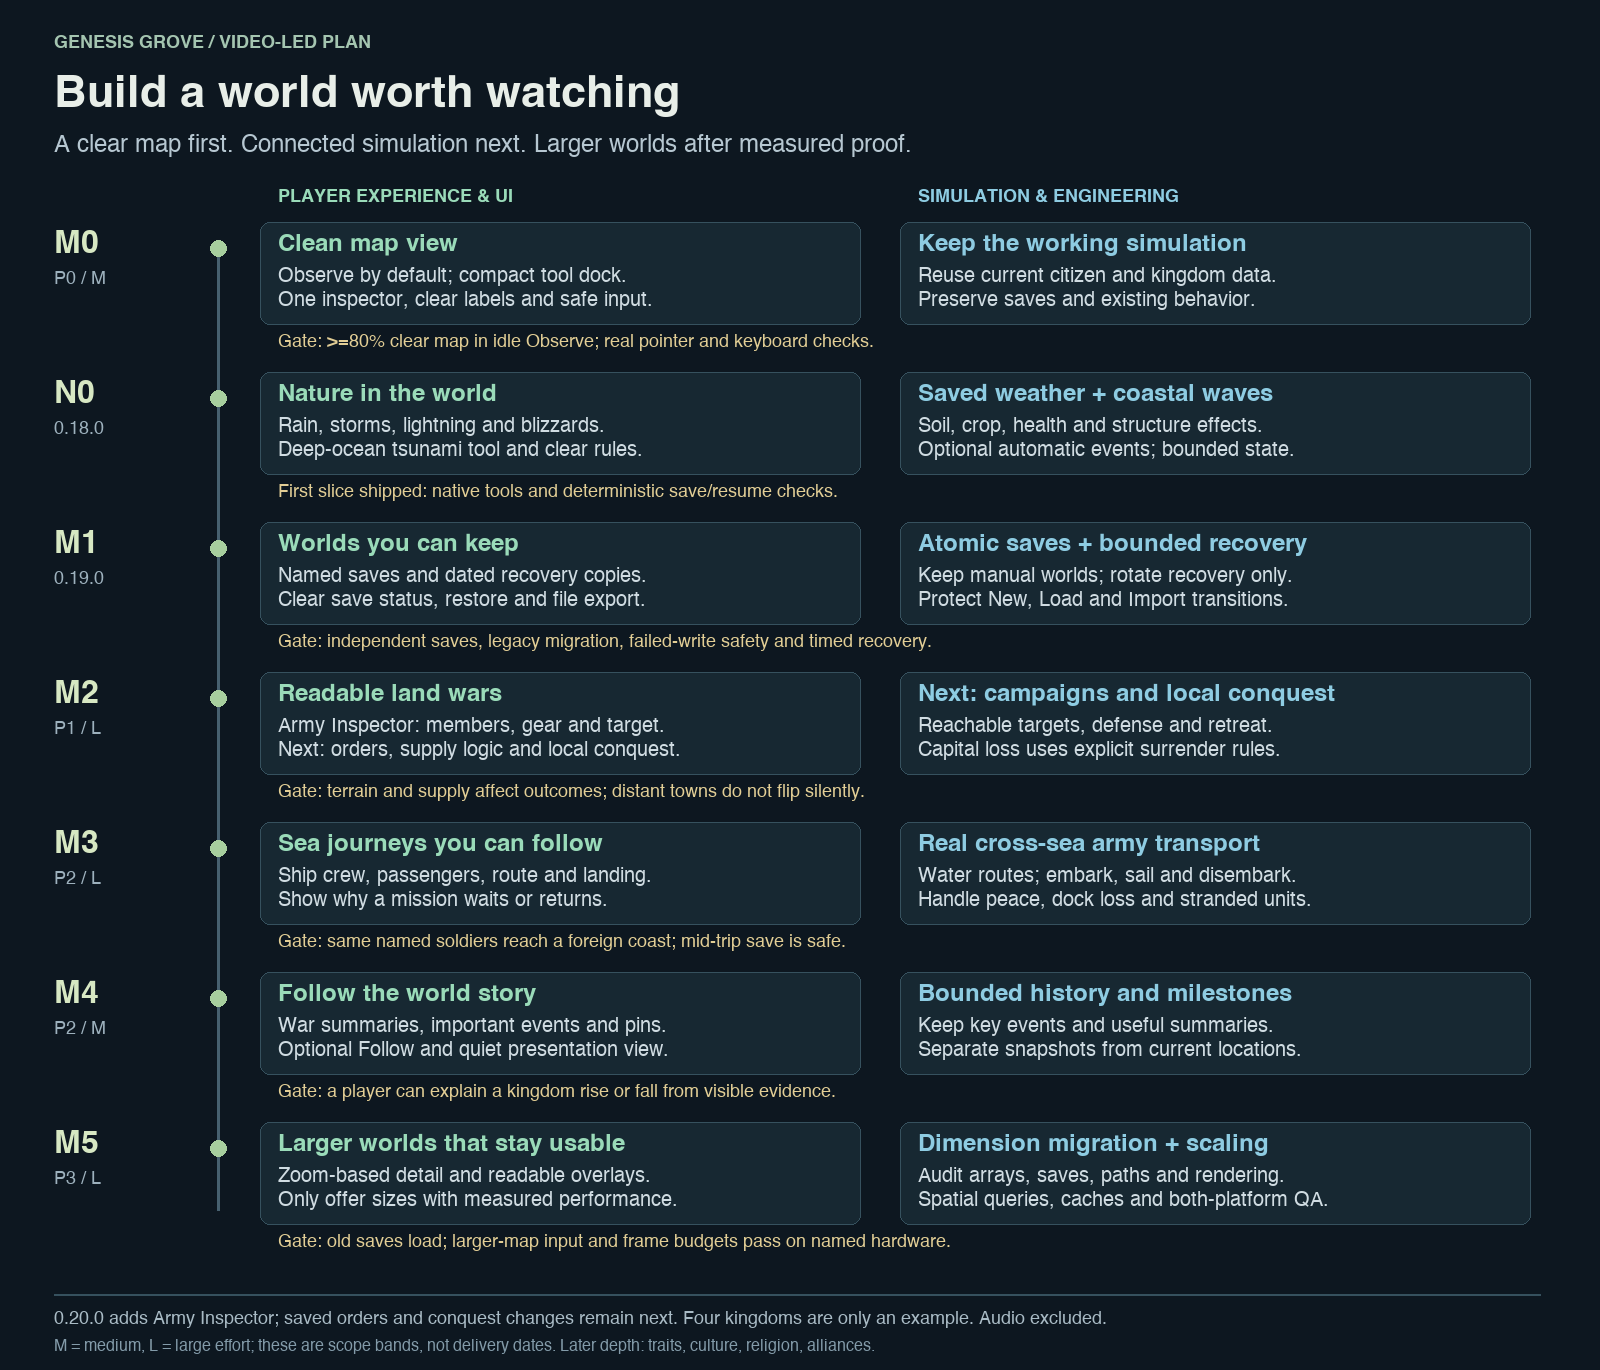
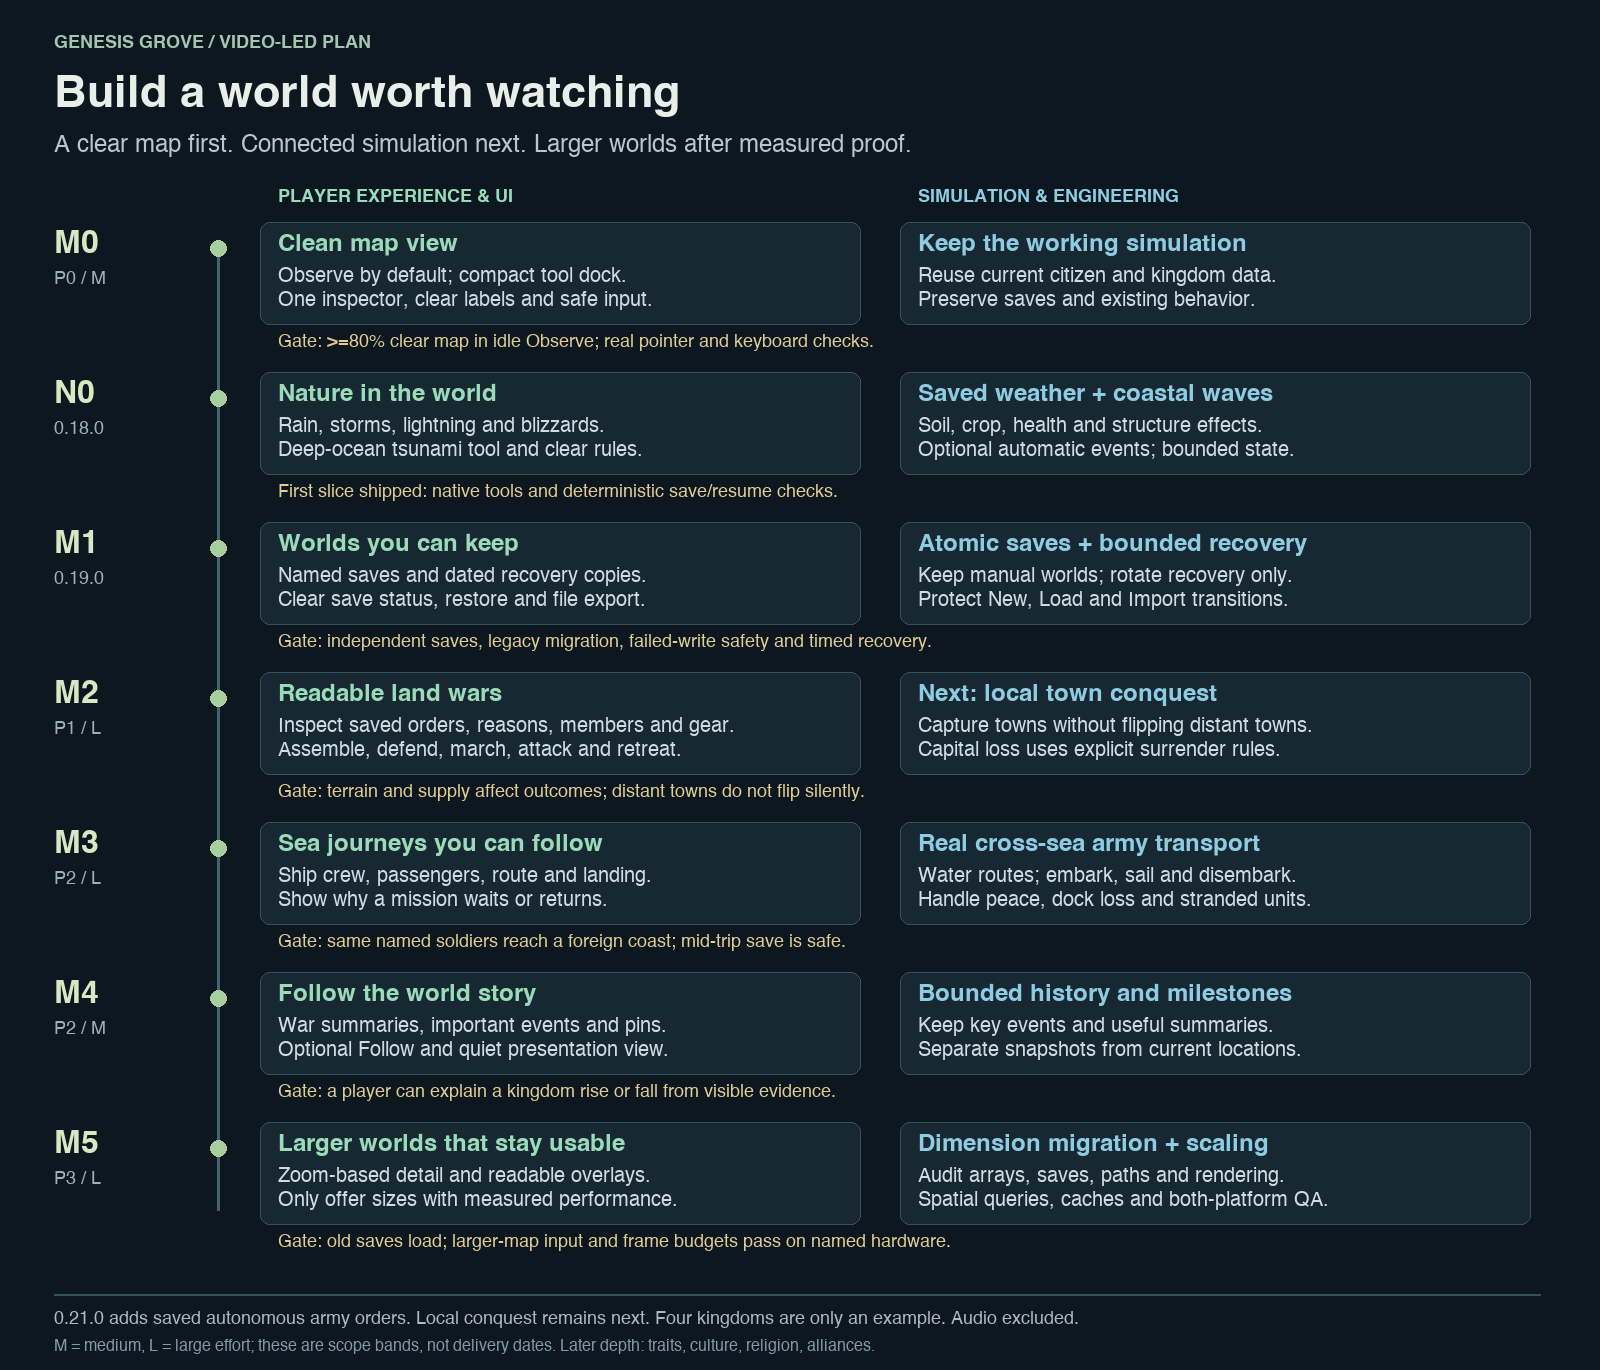
chore: release 0.21.0 with autonomous army orders

Changed region(s): [[0.0938, 0.9504, 0.6875, 0.981], [0.5625, 0.4905, 0.8438, 0.5518], [0.1562, 0.5212, 0.4375, 0.5518]]

diff --git a/docs/release-0.21.0.md b/docs/release-0.21.0.md
@@ -1,0 +1,53 @@
+# 0.21.0: Armies keep and explain their decisions
+
+Home garrisons now save stable autonomous orders: assemble, defend, march, attack
+and retreat. A campaign keeps its reachable enemy-town target instead of switching
+merely because another town becomes closer. Dispersed members assemble, nearby
+home attackers call soldiers back, and low health or shared food causes real
+homeward withdrawal. Equipped-strength margins influence campaign decisions.
+
+The Army Inspector shows the saved order and its reason separately from live
+member tasks. Existing medical care and individual injury behavior retain priority.
+Retreating groups remain visible; destination lines show valid March/Attack targets.
+Kingdom summaries use order states. The compact map-first interface remains.
+
+Orders persist through save/load with bounded validation. Old worlds without orders
+load with an explicit home-guard preview until time runs. Paused loading/inspection
+neither advances time nor issues or replaces decisions. Peace, capture, lost targets,
+blocked terrain and group dispersal have defined invalidation behavior. A failed
+bounded military path stops movement rather than falling back to a direct march.
+
+Food remains shared kingdom stock. This update does not introduce carried army
+rations, dedicated supply lines, player micromanagement, local capital-conquest
+rules or military ocean transport. Capital capture still transfers its kingdom.
+
+- [Actual saved March order](images/army-1366x768-0.21.0.png)
+- [Actual compact view](images/army-1024x768-compact-0.21.0.png)
+- [Actual food-shortage withdrawal](images/army-withdrawal-1366x768-0.21.0.png)
+- [Order rules, compatibility and measured cost](army-inspector.md)
+- [Updated implementation path](video-analysis/README.md)
+
+## Verification
+
+- 131 simulation/save tests and JavaScript syntax checks passed.
+- Source Mac Electron: 56 general and seven army check groups passed, with no
+  renderer errors. Army checks cover saved order/reason, actual withdrawal,
+  native selection, follow/cancellation, no paint-through, presentation and
+  compact layouts. Unit checks include state transitions, sticky targets, stale
+  intents, blocked routes, malformed imports and deterministic save/resume.
+- A documented seven-run 100-kingdom fixture comparison measured steady-step
+  median/p95 of 4.008/7.197 ms versus 2.580/5.120 ms in 0.20.0. Routing/decision
+  cost increased; this is not a frame-rate or maximum-population guarantee.
+
+- Packaged Mac Electron: 56 general and seven army check groups passed, with no
+  renderer errors. The withdrawal capture follows verified homeward movement and
+  waits for the live retreat activity and clear notices.
+- Mac arm64 and Windows x64 ZIP builds completed. All 37 packaged source files in
+  both applications match the verified workspace; metadata reports 0.21.0 and the
+  expected desktop entry. ZIP integrity and bundled payload matching passed.
+
+Packages are unsigned. The Windows ZIP is cross-built; Windows
+gameplay has not been tested. Native platform build results are checked separately.
+
+Next: local town capture and explicit capital-surrender rules, then ship inspection
+and military transport across water. Larger maps remain later measured work.

diff --git a/docs/video-analysis/README.md b/docs/video-analysis/README.md
@@ -23,8 +23,13 @@ world replacement. Map layers and a quiet presentation view extend M0 for the ge
 sandbox. There is no new kingdom-count requirement or dedicated scenario.
 
 Version 0.20.0 adds the first M2 slice: compact army inspection, live member tasks,
-equipment, target/siege summaries and focus/follow. Persistent orders, dedicated
-army supply and local conquest remain later changes.
+equipment, target/siege summaries and focus/follow. That release left saved orders
+and later conquest changes for the next slices.
+
+Version 0.21.0 persists autonomous orders with reachable targets, assembly, defense,
+attack and retreat. The inspector explains health, food, strength and target
+decisions; legacy worlds remain readable. Local capital conquest, dedicated supply
+inventory/routes and naval army transport remain future work.
 
 ## Read this first
 
@@ -147,21 +152,21 @@ No four-kingdom setup is included; the existing general sandbox remains the targ
 ### M2 — Make land wars explainable · P1 · L
 
 The compact [Army Inspector](../army-inspector.md) exposes home garrisons, live
-member activity/equipment, shared kingdom food and target siege pressure. The next
-slice adds saved autonomous home-group orders, stable identities, reachable sticky
+member activity/equipment, shared kingdom food and target siege pressure. Version
+0.21.0 adds saved autonomous home-group orders, stable identities, reachable sticky
 targets, home defense and food/health/strength decisions. Assemble, defend, march,
 attack and retreat guide actual movement; paused reconstruction only projects
 saved orders. Dedicated inventory/supply routes, local capital conquest and military
 sea transport remain future work. This is a first M2 slice, not completion of the
 milestone's conquest and stronghold gates.
 
-- Give armies stable identities and states: assemble, defend, march, attack, retreat.
-- Evaluate reachable targets, threat, food and equipment instead of only distance.
-- Show targets, supply condition, siege progress, and a short reason for each order.
-- Record diplomatic intent and treaty timers. Keep current pairwise relations first.
-- Make town capture local. The current capital-capture function transfers all towns
+- [x] Save stable home-group identities and autonomous assemble/defend/march/attack/retreat orders.
+- [x] Evaluate reachable targets, home threat, health, shared food and equipped strength.
+- [x] Show targets, shared food, target siege pressure and a short reason for each order.
+- [ ] Record diplomatic intent and treaty timers. Keep current pairwise relations first.
+- [ ] Make town capture local. The current capital-capture function transfers all towns
   and people immediately; introduce relocation or explicit surrender conditions.
-- Keep civilians working and towns recovering while armies campaign.
+- [ ] Verify sustained civilian work and town recovery through the local-conquest changes.
 
 **Done when:** an army cannot cross impassable terrain or attack an unreachable
 target; a stronghold and supply shortage change an outcome; capturing a capital

diff --git a/docs/architecture.md b/docs/architecture.md
@@ -21,7 +21,8 @@ The simulation and procedural renderer use web standards without runtime library
 - `src/machines.js`: bounded fleets of water boats, ground artillery, survey balloons, courier aircraft, and larger flying transports.
 - `src/machine_art.js`: original vessel, aircraft, cannon, and fortification sprites.
 - `src/save_store.js` and `src/save_ui.js`: atomic IndexedDB named saves, bounded recovery, legacy migration, visible-time autosave and pre-replacement protection.
-- `src/army_inspector.js`: read-only active-garrison summaries, badge visibility/hit areas and paused-load reconstruction with the existing transient planner.
+- `src/army_orders.js`: bounded deterministic autonomous garrison orders, land-route reachability, saved-state validation and read-only paused projection.
+- `src/army_inspector.js`: read-only active-garrison summaries, badge visibility/hit areas and paused-load projection of saved orders; legacy worlds preview a home guard until planning runs.
 - `src/map_layers.js`: actual remaining-deposit, army and trade/settler overlays; presentation mode changes the HUD without changing simulation rules.
 - `src/weather.js` and `src/weather_art.js`: bounded saved rain/storm/drought/blizzard/tsunami events, optional natural scheduling, coastal reach checks, actual crop/soil/health/structure effects and original visual effects.
 - `src/sandbox.css`: map-first Observe layout, contextual tool palette and compact dock; summary-first inspectors preserve expanded detail state.

diff --git a/docs/roadmap.md b/docs/roadmap.md
@@ -15,10 +15,11 @@ concise inspectors and native input checks. A Nature slice adds moving rain and
 storms, lightning, drought, blizzards and deep-ocean coastal tsunamis, with optional
 automatic events and saved state. Version 0.19.0 adds named saves/recovery, map
 layers and presentation view. Version 0.20.0 adds compact army inspection and
-focus/follow. Ship inspection and persistent army orders remain future work.
+focus/follow. Version 0.21.0 persists autonomous orders, explains their reasons and
+uses actual health, food, strength and land reachability. Ship inspection remains future work.
 The four kingdoms are only the video example; no dedicated setup is planned.
-Next: persistent army orders and explained decisions, followed by local conquest
-and detailed ship inspection.
+Next: local town conquest and explicit capital-surrender rules, followed by
+detailed ship inspection and military transport.
 See [nature mechanics](nature.md) for current effects and later hazards.
 
 ## Earlier feature priorities

diff --git a/README.md b/README.md
@@ -23,7 +23,9 @@ npm start
 
 If a macOS build has already been made, open `dist/mac-arm64/Genesis Grove.app` (Apple silicon) or `dist/mac/Genesis Grove.app` (Intel). Desktop packages include their own runtime; players do not need Node.js.
 
-Version 0.20.0 adds a compact Army Inspector with selection, live member/equipment
+Version 0.21.0 adds saved autonomous army orders with visible reasons, reachable
+campaign targets, assembly, defense and retreat. Version 0.20.0 added a compact
+Army Inspector with selection, live member/equipment
 summaries and focus/follow. Version 0.19.0 added named world saves, automatic recovery, pre-replacement snapshots,
 map layers and a quiet presentation view. The map-first Observe UI and natural events
 from 0.18.0 remain. The reference video's four kingdoms are an example; this update

diff --git a/docs/video-analysis/ui-plan.md b/docs/video-analysis/ui-plan.md
@@ -3,8 +3,9 @@
 Companion to the [implementation path](README.md). This is a design specification,
 covering the full target. Version 0.18.0 introduced the first slice; 0.19.0 adds
 map layers, saved-world management and presentation view. Version 0.20.0 adds
-compact army inspection and focus/follow. Ship inspectors and persistent army-order
-controls remain part of later military and transport work.
+compact army inspection and focus/follow. Version 0.21.0 adds saved autonomous
+order/reason display. Ship inspectors and local-conquest explanations remain part
+of later military and transport work.
 
 ## The reference's useful pattern
 
